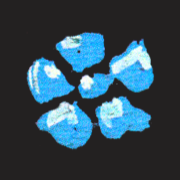
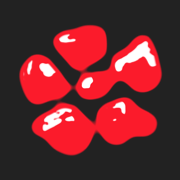
Új ikon: piros virág fehér foltokkal a böngészőfülön és a fejlécben

diff --git a/layouts/_partials/header.html b/layouts/_partials/header.html
@@ -1,5 +1,5 @@
 {{- /* Fejléc. Jobbra fent, minden oldalon ugyanott, a másik nyelv a menüpontok méretében, kiírva, dőlten (English / Magyar; rámutatva álló): külön áll, nem a menü része.
-     Aloldalon balra egy pici banán (a nyitóoldalra visz), jobbra a menü; telefonon a banán és a nyelv egy sorban, alattuk a menü.
+     Aloldalon balra egy pici piros virág (a nyitóoldalra visz), jobbra a menü; telefonon a virág és a nyelv egy sorban, alattuk a menü.
      A nyitóoldalon csak a nyelv áll itt; a név és a menü ott az oldalon van (home.html). */ -}}
 {{- $other := "" }}
 {{- range .Translations }}{{ $other = .RelPermalink }}{{ end }}
@@ -8,9 +8,9 @@
 <header class="site-header">
   <div class="wrap fejsor">
     {{- if not .IsHome }}
-    {{- /* a név helyén egy pici banán (a kiadó logója); a név a felolvasóknak szól */}}
-    <a class="site-name banan-jel" href="{{ "/" | relLangURL }}">
-      {{- with resources.Get "images/agencia/banan-szines.png" }}{{ with .Resize "x112 png" }}<img src="{{ .RelPermalink }}" width="{{ .Width }}" height="{{ .Height }}" alt="">{{ end }}{{ end -}}
+    {{- /* a név helyén egy pici piros virág (ugyanaz, mint a böngészőfül ikonja); a név a felolvasóknak szól */}}
+    <a class="site-name virag-jel" href="{{ "/" | relLangURL }}">
+      {{- with resources.Get "images/virag-jel.png" }}{{ with .Resize "112x png" }}<img src="{{ .RelPermalink }}" width="{{ .Width }}" height="{{ .Height }}" alt="">{{ end }}{{ end -}}
       <span class="visually-hidden">{{ site.Title }}</span></a>
     <nav class="site-nav" aria-label="{{ T "mainMenu" }}">
       <ul>

diff --git a/layouts/_partials/head.html b/layouts/_partials/head.html
@@ -35,11 +35,11 @@
 <meta property="og:image:height" content="630">
 <meta name="twitter:card" content="summary_large_image">
 {{- end }}
-{{- /* böngészőfül-ikon: a kis kék virág a Greener zine hátsó borítójáról */}}
-<link rel="icon" href="{{ "favicon.ico" | relURL }}?v=4" sizes="any">
-<link rel="icon" href="{{ "favicon-32.png" | relURL }}?v=4" type="image/png" sizes="32x32">
-<link rel="icon" href="{{ "favicon-192.png" | relURL }}?v=4" type="image/png" sizes="192x192">
-<link rel="apple-touch-icon" href="{{ "apple-touch-icon.png" | relURL }}?v=4">
+{{- /* böngészőfül-ikon: a kis virág a Greener zine hátsó borítójáról, simítva, pirosan, fehér foltokkal */}}
+<link rel="icon" href="{{ "favicon.ico" | relURL }}?v=5" sizes="any">
+<link rel="icon" href="{{ "favicon-32.png" | relURL }}?v=5" type="image/png" sizes="32x32">
+<link rel="icon" href="{{ "favicon-192.png" | relURL }}?v=5" type="image/png" sizes="192x192">
+<link rel="apple-touch-icon" href="{{ "apple-touch-icon.png" | relURL }}?v=5">
 <link rel="preload" href="{{ "fonts/sourceserif-latin-normal.woff2" | relURL }}" as="font" type="font/woff2" crossorigin>
 {{- /* a dőlt betű is előre töltődik: a rámutatáskor dőltté váló menüpontok így nem villannak és nem ugranak az első rámutatáskor */}}
 <link rel="preload" href="{{ "fonts/sourceserif-latin-italic.woff2" | relURL }}" as="font" type="font/woff2" crossorigin>

diff --git a/assets/css/main.css b/assets/css/main.css
@@ -148,9 +148,9 @@ mark.todo {
    A sor magassága minden oldalon ugyanannyi (2 × ,9rem + a kis betű sora), a nyitóoldalon is, ahol csak a nyelv áll benne. */
 .fejsor { display: grid; grid-template-columns: auto minmax(0, 1fr) auto; grid-template-areas: "nev menu nyelv"; align-items: baseline; column-gap: 2rem; row-gap: .6rem; padding-block: .9rem; }
 .fejsor .site-name { grid-area: nev; }
-/* a név helyén a banán: a sor közepén, és a sor magasságát nem növeli (negatív margó), így a címek ugyanott maradnak */
-.banan-jel { display: block; align-self: center; line-height: 0; --banan: 1.75rem; margin-block: calc((var(--t-small) * 1.4 - var(--banan)) / 2); }
-.banan-jel img { display: block; height: var(--banan); width: auto; }
+/* a név helyén a virág: a sor közepén, és a sor magasságát nem növeli (negatív margó), így a címek ugyanott maradnak */
+.virag-jel { display: block; align-self: center; line-height: 0; --jel: 1.75rem; margin-block: calc((var(--t-small) * 1.4 - var(--jel)) / 2); }
+.virag-jel img { display: block; height: var(--jel); width: auto; }
 .fejsor .site-nav { grid-area: menu; justify-self: end; }
 .nyelv { grid-area: nyelv; justify-self: end; margin-left: 1.25rem; font-family: var(--serif); font-size: var(--t-small); line-height: calc(var(--t-small) * 1.4); color: var(--muted); text-decoration: none; }
 .nyelv { font-style: italic; }
